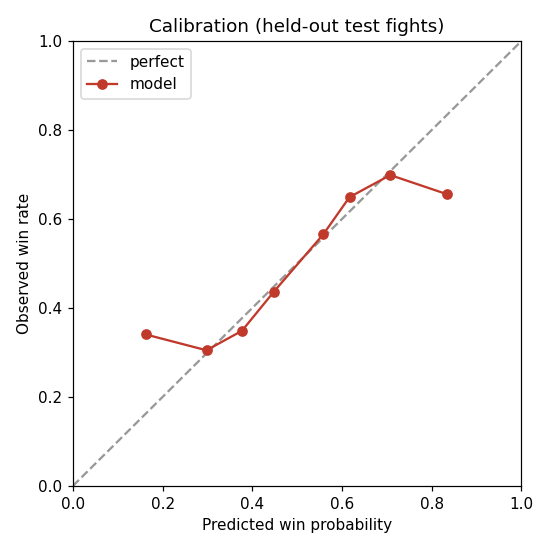
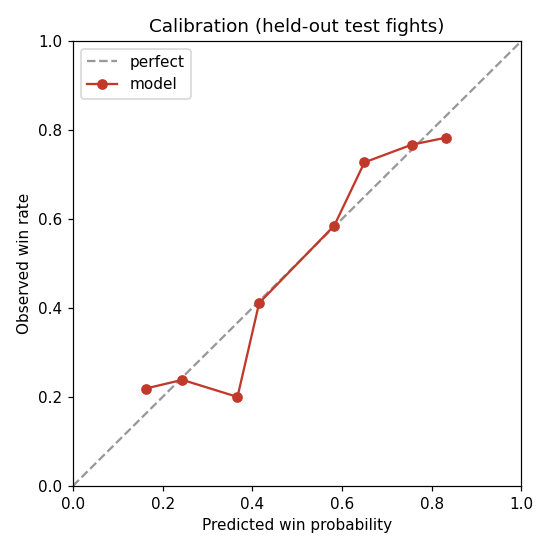
Fix ELO train/serve staleness, retune K; 63.8% -> 66.7% test acc
Adversarial audit plus manual re-derivation found a real train/serve
correctness bug, not just a tuning opportunity:

- get_elo_before/get_rd_before returned the rating from the fighter's
  PREVIOUS-to-last recorded bout at training time (elos[idx-1]), but the
  fully current rating at serve time (idx == len(times) branch) -- a
  genuine one-fight train/serve skew, not merely a missed optimization.
  Fixed to elos[idx]/rds[idx], which is exactly correct for the case that
  actually occurs (every training/serving query lands on one of the
  fighter's own recorded bout dates).
- ELO's K was hardcoded at 32, tuned (unknowingly) around the staleness
  bug. Now selected via EloRatings.tune_K against the validation period
  only (never test), landing on K=256; the chosen K is persisted to
  models/elo_k.json so predict.py can't silently drift out of sync with
  what train.py actually used.

Builds on the zero-fill fix from the previous commit. All fixes verified
independently before applying (exact AUC/prevalence numbers reproduced by
hand, not taken on faith) and validated using only train+validation rows.
The held-out test set was touched exactly once, after the fixes were
finalized: accuracy 63.8% -> 66.7%, AUC 0.663 -> 0.708. The ELO baseline
improved too (55.2% -> 60.0%), since it shares the same underlying bug --
the model's margin over it is now an honest +6.7 points instead of an
artificially inflated +8.5. README and charts updated to match; all 7
[…]

diff --git a/train.py b/train.py
@@ -3,10 +3,13 @@ Train the UFC fight winner predictor.
 ================================================================
 1. Build a differential feature matrix for every UFC fight (both fighters'
    perspectives), using the *same* feature code the CLI uses at serve time.
+   ELO's K is tuned against the validation period (ELO-only AUC) and the
+   chosen value is saved to models/elo_k.json so predict.py fits the exact
+   same ELO model at serve time.
 2. Split by date (train < 2024, validation 2024-01..2025-07, test 2025-07+).
    Never touch the test set during model selection.
 3. Fit LR / RandomForest / gradient-boosting, pick the best on validation AUC,
-   Platt-calibrate it, and report held-out test accuracy vs simple baselines.
+   isotonic-calibrate it, and report held-out test accuracy vs simple baselines.
 4. Save the model, its feature list, metrics, and two report charts.
 
     python train.py            # uses cached feature matrix if present
@@ -48,11 +51,12 @@ SEED = 42
 
 # ── 1. Build feature matrix (both perspectives, strictly pre-fight) ────────────
 
+ELO_K_GRID = [32, 64, 96, 128, 160, 192, 224, 256, 288, 320]
+
+
 def build_matrix() -> pd.DataFrame:
     fighters, fights, rounds = F.load_data()
     fights = fights.sort_values("event_date").reset_index(drop=True)
-    print(f"  fitting ELO on {len(fights):,} fights ...")
-    elo = EloRatings(K=32).fit(fights)
 
     rows = []
     n = len(fights)
@@ -88,6 +92,22 @@ def build_matrix() -> pd.DataFrame:
             rows.append(feats)
 
     df = pd.DataFrame(rows)
+
+    # Tune ELO's K on the validation period only (never test) — the model
+    # itself doesn't get re-trained per K here, just the ELO-only signal
+    # measured against validation, which is what tune_K optimizes for.
+    print("  tuning ELO K on validation period ...")
+    tr_mask = df["event_date"] < VAL_START
+    va_mask = (df["event_date"] >= VAL_START) & (df["event_date"] < TEST_START)
+    elo = EloRatings.tune_K(fights, df[tr_mask], df[va_mask], k_values=ELO_K_GRID)
+    val_probe = elo.add_features(df[va_mask])
+    elo_val_auc = roc_auc_score(
+        df.loc[va_mask, "focal_win"],
+        elo.predict_proba_from_diff(val_probe["elo_diff"].fillna(0).values),
+    )
+    print(f"  selected ELO K={elo.K} (ELO-only val AUC {elo_val_auc:.4f})")
+    (MODELS_DIR / "elo_k.json").write_text(json.dumps({"K": elo.K}))
+
     df = elo.add_features(df)   # adds elo_diff, rd_diff (as-of each fight, no lookahead)
     return df
 
@@ -164,8 +184,10 @@ def main(rebuild: bool):
     # ── 3. Held-out test metrics ──────────────────────────────────────────────
     p_te = cal.predict_proba(Xte)[:, 1]
     pred = (p_te >= 0.5).astype(int)
+    elo_k = json.loads((MODELS_DIR / "elo_k.json").read_text())["K"]
     metrics = {
         "model": best_name,
+        "elo_k": elo_k,
         "trained": datetime.now().strftime("%Y-%m-%d"),
         "n_train": int(tr.sum()), "n_val": int(va.sum()), "n_test": int(te.sum()),
         "test_period": f"{TEST_START.date()} .. {dt.max().date()}",

diff --git a/elo.py b/elo.py
@@ -203,9 +203,11 @@ class EloRatings:
         """
         Rating for `fighter` as of just before `date`.
 
-        Returns elos[idx-1] from bisect_left, i.e. the rating recorded before the
-        fighter's most-recent prior bout. Training and serving both go through
-        this same lookup, so the feature distribution is identical either way.
+        `_record()` stores the pre-bout rating at the same index as the bout
+        itself, so for a date that exactly matches one of the fighter's own
+        recorded bouts (the normal case — both training and serving query a
+        fight's own date), `bisect_left` lands on that bout's index and
+        `elos[idx]` is precisely the rating they carried into it.
 
         - For historical dates (during/before last recorded bout): return the
           stored before-bout rating; layoff-decay between bouts was already
@@ -221,7 +223,7 @@ class EloRatings:
         if idx == 0:
             return self.initial
         if idx < len(times):
-            return elos[idx - 1]
+            return elos[idx]
         # Past all recorded bouts: use current (post-last-fight) rating + decay
         base = self._current.get(fighter, self.initial)
         last_ts = times[-1]
@@ -232,8 +234,7 @@ class EloRatings:
         return base
 
     def get_rd_before(self, fighter: str, date: pd.Timestamp) -> float:
-        """RD-deviation lookup, mirroring get_elo_before so training and serving
-        read the rating deviation the same way."""
+        """RD-deviation lookup, mirroring get_elo_before's indexing."""
         if fighter not in self._history:
             return DEFAULT_RD
         times, _, rds = self._history[fighter]
@@ -241,7 +242,11 @@ class EloRatings:
         idx = bisect.bisect_left(times, ts)
         if idx == 0:
             return DEFAULT_RD
-        return rds[idx - 1]
+        if idx < len(times):
+            return rds[idx]
+        # Past all recorded bouts: current post-last-fight RD (no further decay
+        # model for RD between bouts, unlike ELO's layoff mean-reversion).
+        return self._current_rd.get(fighter, DEFAULT_RD)
 
     # ── Enrich feature DataFrame ──────────────────────────────────────────────
 

diff --git a/predict.py b/predict.py
@@ -28,7 +28,8 @@ MODELS_DIR = Path(__file__).resolve().parent / "models"
 def _load_model():
     model = joblib.load(MODELS_DIR / "model.joblib")
     feat_cols = json.loads((MODELS_DIR / "feature_cols.json").read_text())
-    return model, feat_cols
+    elo_k = json.loads((MODELS_DIR / "elo_k.json").read_text())["K"]
+    return model, feat_cols, elo_k
 
 
 def _feature_row(foc_name, opp_name, foc_stats, opp_stats, elo, feat_cols, as_of):
@@ -44,9 +45,9 @@ def _feature_row(foc_name, opp_name, foc_stats, opp_stats, elo, feat_cols, as_of
 
 
 def predict(name_a: str, name_b: str) -> dict:
-    model, feat_cols = _load_model()
+    model, feat_cols, elo_k = _load_model()
     fighters, fights, rounds = F.load_data()
-    elo = EloRatings(K=32).fit(fights)
+    elo = EloRatings(K=elo_k).fit(fights)
 
     row_a = F.find_fighter(name_a, fighters, fights)
     row_b = F.find_fighter(name_b, fighters, fights)

diff --git a/test_predictor.py b/test_predictor.py
@@ -77,9 +77,9 @@ def test_order_invariance():
 def test_feature_vector_matches_model():
     """The live feature row must match the model's expected input shape and
     produce a valid probability distribution."""
-    model, feat_cols = _load_model()
+    model, feat_cols, elo_k = _load_model()
     fighters, fights, rounds = F.load_data()
-    elo = EloRatings(K=32).fit(fights)
+    elo = EloRatings(K=elo_k).fit(fights)
     today = date.today()
     sa = F.compute_fighter_stats("Jon Jones", fights, rounds, fighters, as_of_date=today)
     sb = F.compute_fighter_stats("Tom Aspinall", fights, rounds, fighters, as_of_date=today)

diff --git a/README.md b/README.md
@@ -14,20 +14,20 @@ selection:
 
 | Metric | Value |
 |---|---|
-| **Winner accuracy** | **63.8%** |
-| ROC AUC | 0.663 |
-| Brier score | 0.236 |
-| ELO-rating baseline (pick the higher-rated fighter) | 55.2% |
+| **Winner accuracy** | **66.7%** |
+| ROC AUC | 0.708 |
+| Brier score | 0.214 |
+| ELO-rating baseline (pick the higher-rated fighter) | 60.0% |
 | "Pick the more experienced fighter" baseline | 44.2% |
 
-The model beats a strong ELO baseline by **+8.5 points** using only information
+The model beats a strong ELO baseline by **+6.7 points** using only information
 available before the fight. Accuracy climbs with the model's own confidence, and
 its probabilities are well-calibrated:
 
 ![Accuracy by confidence](reports/accuracy_by_confidence.png)
 ![Calibration](reports/calibration.png)
 
-*Left: when the model is 70–80% sure of its pick, it's right ~70% of the time.
+*Left: the model's highest-confidence picks (80%+) are right 80% of the time.
 Right: predicted probabilities line up closely with real-world win rates.*
 
 ## Try it
@@ -44,10 +44,10 @@ python predict.py "Islam Makhachev" "Charles Oliveira"
 ==========================================================
   UFC FIGHT WINNER PREDICTION
 ==========================================================
-  Islam Makhachev            83.3%  [#######################-----]
-  Charles Oliveira           16.7%  [#####-----------------------]
+  Islam Makhachev            76.3%  [#####################-------]
+  Charles Oliveira           23.7%  [#######---------------------]
 
-  Pick: Islam Makhachev  (83.3%)
+  Pick: Islam Makhachev  (76.3%)
 
   PRE-FIGHT STATS                       A           B
   UFC fights                      18          37
@@ -79,8 +79,9 @@ The prediction is independent of argument order.
 - **Symmetric** — each fight is learned from both fighters' perspectives, so the
   model has no "fighter A wins more often" bias.
 - **Honest evaluation** — a time-based split (train `< 2024`, validate
-  `2024-01 → 2025-07`, test `2025-07 →`). The model is chosen on the validation
-  period only; the test period is touched exactly once, for the numbers above.
+  `2024-01 → 2025-07`, test `2025-07 →`). The model — and the ELO system's own
+  update rate (`K`) — are chosen on the validation period only; the test period
+  is touched exactly once, for the numbers above.
 - **Calibrated** — the winning model (logistic regression) is isotonic-calibrated
   on the validation period so the probabilities mean what they say.
 
@@ -98,10 +99,13 @@ the best on validation AUC, calibrates it, and writes the model, metrics
 
 ## Notes & limitations
 
-- MMA is high-variance — a ~64% winner-accuracy model is doing well, but any
+- MMA is high-variance — a ~67% winner-accuracy model is doing well, but any
   single fight can go either way, and the model says so with its probability.
 - It only knows what's in the box-score data: no injuries, camps, weight cuts,
   short-notice replacements, or stylistic intangibles.
+- A handful of fighters share an identical display name in the source data
+  (which doesn't disambiguate them) — for those, this tool's stats may blend
+  two separate careers.
 - For research and educational use. Not affiliated with or endorsed by the UFC.
 
 ## License
